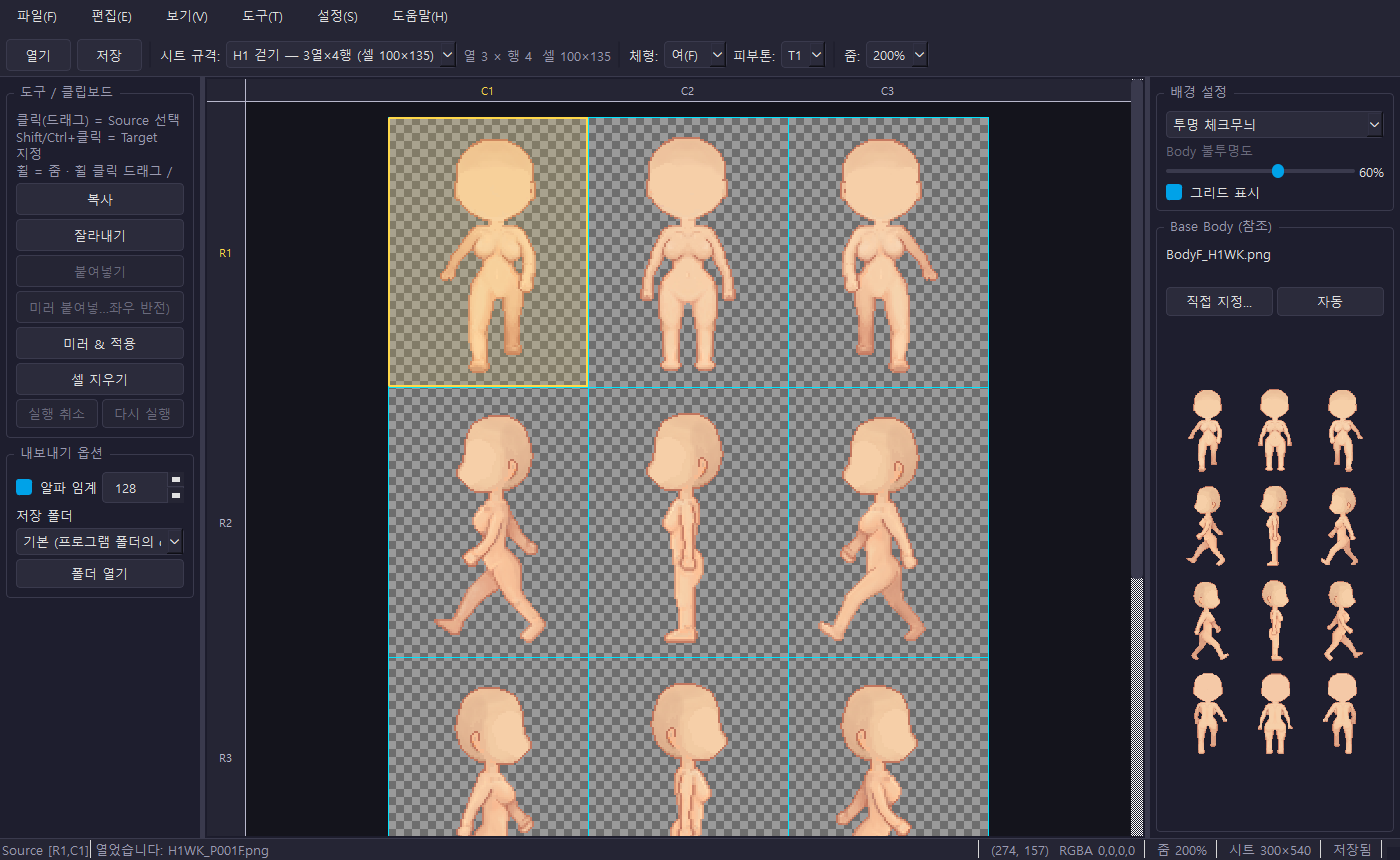
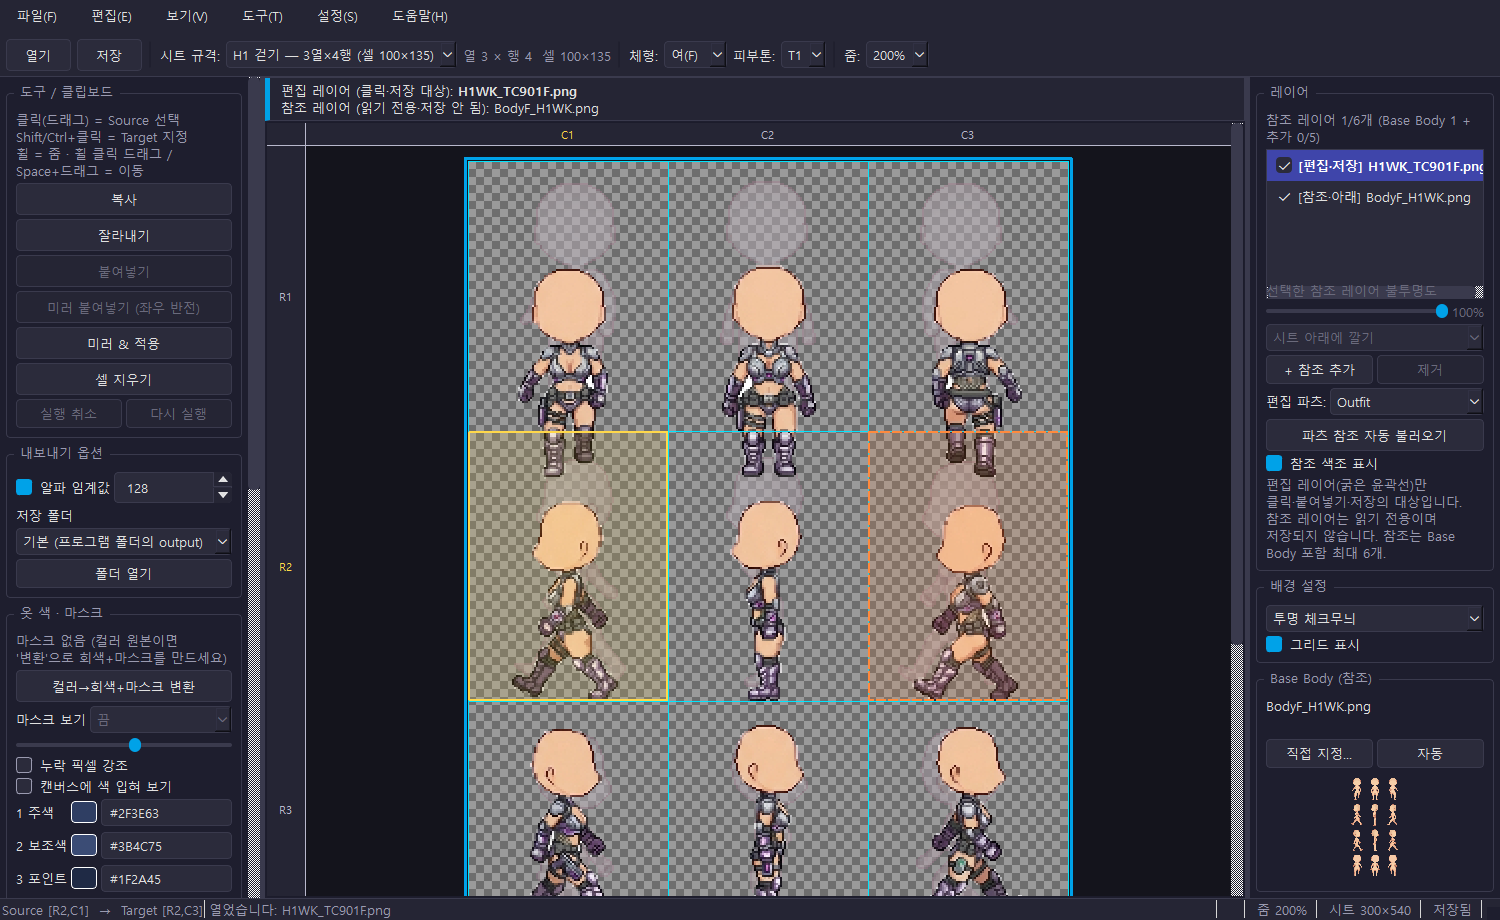
README 메인 스크린샷을 v0.3.0 화면으로 교체

diff --git a/README.md b/README.md
@@ -7,7 +7,7 @@
 기획서: 볼트 `에디터 툴 제작\EDT-ETC.6 스프라이트 시트 편집기 SpriteGrid Editor 기획서 v1.1.md`
 스택: Python 3 + PySide6(Qt) + Pillow + NumPy
 
-![SpriteGrid Editor 메인 화면 (H1 걷기 시트, Base Body 참조)](docs/images/main_ko.png)
+![SpriteGrid Editor v0.3.0 메인 화면 (H1 걷기 옷 시트 + Base Body 참조)](docs/images/main_ko.png)
 
 ## 📌 주요 기능 (V0.3.0)
 
